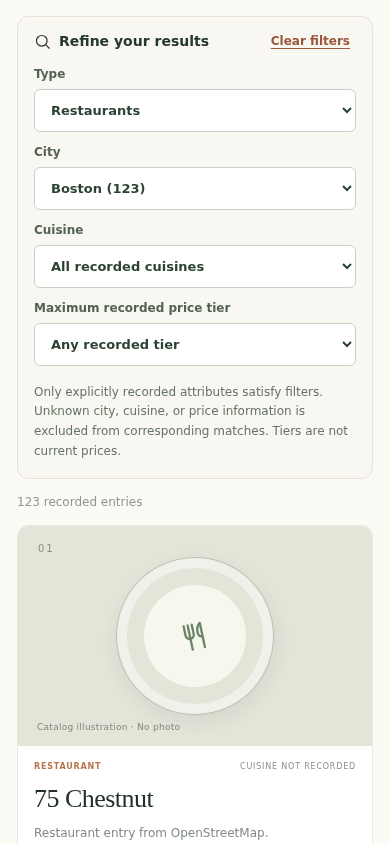
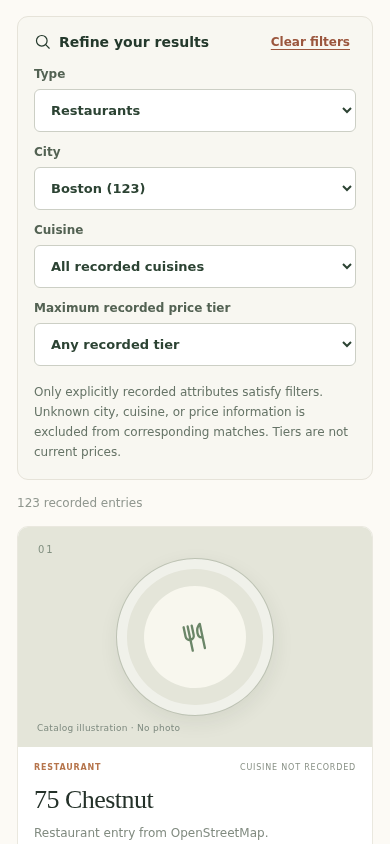
docs: replace synthetic restaurant screenshots with authentic discovery captures

diff --git a/tests/test_readme_screenshot_gallery.py b/tests/test_readme_screenshot_gallery.py
@@ -1,4 +1,4 @@
-"""Real-app README gallery and reproducible viewport screenshot contracts."""
+"""Current React screenshots with source-transparent real-provider or form-only modes."""
 
 from pathlib import Path
 
@@ -10,31 +10,33 @@ MOBILE_VIEWS = (
     "consumer-mobile-search.png",
     "consumer-mobile-filters.png",
     "consumer-mobile-results.png",
+    "consumer-mobile-ai-discovery.png",
+    "consumer-mobile-live-discovery.png",
 )
 
 
-def test_readme_uses_desktop_first_gallery_with_mobile_viewports():
+def test_readme_uses_desktop_first_gallery_with_feature_viewports():
     readme = (ROOT / "README.md").read_text(encoding="utf-8")
     begin = "<!-- SCREENSHOTS_BEGIN -->"
     end = "<!-- SCREENSHOTS_END -->"
     assert readme.count(begin) == 1 and readme.count(end) == 1
     gallery = readme.split(begin, 1)[1].split(end, 1)[0]
     assert "#### Desktop application" in gallery
-    assert "#### Mobile application" in gallery
-    assert "| Search | Filters | Restaurant results |" in gallery
+    assert "#### Mobile search and browsing" in gallery
+    assert "#### AI-assisted and live discovery" in gallery
+    assert "| Search | Filters | Catalog results |" in gallery
     assert "docs/screenshots/consumer-desktop-real.png" in gallery
     assert "docs/screenshots/consumer-mobile-real.png" in gallery
     assert gallery.index("consumer-desktop-real.png") < gallery.index("| Search |")
-    # Old two-column gallery caused the huge blank row.
     assert "| React desktop | React mobile |" not in gallery
     for filename in MOBILE_VIEWS:
         assert f"docs/screenshots/{filename}" in gallery
 
 
-def test_mobile_viewport_pngs_are_real_matching_capture_sizes():
+def test_mobile_viewport_pngs_are_matching_real_chromium_capture_sizes():
     for filename in MOBILE_VIEWS:
         path = SCREENSHOTS / filename
-        assert path.is_file(), f"Run: (cd webapp && npm run screenshots) to generate {filename}"
+        assert path.is_file(), f"Run (cd webapp && npm run screenshots) to generate {filename}"
         with Image.open(path) as screenshot:
             assert screenshot.format == "PNG"
             assert screenshot.size == (390, 844)
@@ -47,3 +49,18 @@ def test_mobile_viewport_pngs_are_real_matching_capture_sizes():
         with Image.open(path) as screenshot:
             assert screenshot.format == "PNG"
             assert screenshot.width == expected_width
+
+
+def test_capture_has_no_invented_businesses_and_live_is_explicit():
+    script = (ROOT / "webapp/scripts/capture-screenshots.mjs").read_text(encoding="utf-8")
+    assert "SAVOROUTE_AI_ENABLED: '0'" in script
+    assert "SAVOROUTE_LIVE_ENABLED: '0'" in script
+    assert "SAVOROUTE_OPENAI_API_KEY: ''" in script
+    assert "const liveMode = args.includes('--live')" in script
+    assert "SAVOROUTE_OPENAI_API_KEY in this terminal" in script
+    assert "consent" in script
+    assert "page.waitForResponse" in script
+    assert "web_results.length === 0" in script
+    assert "DEMO Persian Restaurant" not in script
+    assert "example.org/demo-only" not in script
+    assert "installDemoRoutes" not in script

diff --git a/README.md b/README.md
@@ -10,21 +10,29 @@ fictional for reproducible development and does not claim verified availability.
 ### Real application screenshots
 
 <!-- SCREENSHOTS_BEGIN -->
-These screenshots were captured from the **running React consumer app** using
-the opt-in November 2026 Boston OSM snapshot. Records are source-tagged,
-but this does **not** verify current restaurant availability.
+These screenshots show the current SavoRoute React interface with the Boston OSM
+catalog. The catalog reflects a dated source snapshot; check current details
+before visiting.
+The AI and online-discovery panels show actual API responses captured during this session.
+Web-discovered candidates link to sources; restaurant status and menus have not been independently checked.
 
 #### Desktop application
 
-![SavoRoute desktop food discovery with Boston OSM records](docs/screenshots/consumer-desktop-real.png)
+![SavoRoute desktop React consumer app](docs/screenshots/consumer-desktop-real.png)
 
-#### Mobile application
+#### Mobile search and browsing
 
-| Search | Filters | Restaurant results |
+| Search | Filters | Catalog results |
 | :---: | :---: | :---: |
-| ![SavoRoute mobile search screen](docs/screenshots/consumer-mobile-search.png) | ![SavoRoute mobile filter controls](docs/screenshots/consumer-mobile-filters.png) | ![SavoRoute mobile restaurant results](docs/screenshots/consumer-mobile-results.png) |
+| ![SavoRoute mobile search](docs/screenshots/consumer-mobile-search.png) | ![SavoRoute mobile filters](docs/screenshots/consumer-mobile-filters.png) | ![SavoRoute mobile catalog results](docs/screenshots/consumer-mobile-results.png) |
 
-[View the complete mobile screenshot](docs/screenshots/consumer-mobile-real.png).
+#### AI-assisted and live discovery — actual provider responses
+
+| Food interpretation | Online restaurant discovery |
+| :---: | :---: |
+| ![SavoRoute AI food interpretation panel](docs/screenshots/consumer-mobile-ai-discovery.png) | ![SavoRoute live restaurant discovery panel](docs/screenshots/consumer-mobile-live-discovery.png) |
+
+[View the complete mobile page](docs/screenshots/consumer-mobile-real.png).
 <!-- SCREENSHOTS_END -->
 
 ### Optional live restaurant discovery
